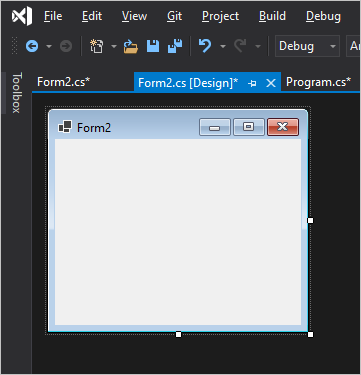
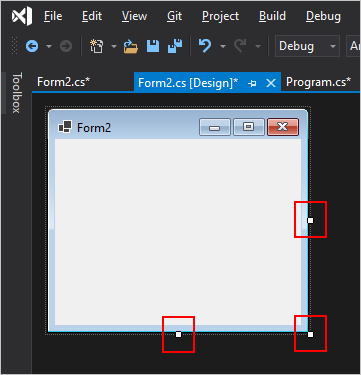
Fix warnings

diff --git a/dotnet-desktop-guide/net/winforms/forms/how-to-position-and-resize.md b/dotnet-desktop-guide/net/winforms/forms/how-to-position-and-resize.md
@@ -20,11 +20,11 @@ You can change the size of a form at design time with Visual Studio, and at run 
 
 After [adding a new form](how-to-add.md) to the project, the size of a form is set in two different ways. First, you can set it is with the size grips in the designer. By dragging either the right edge, bottom edge, or the corner, you can resize the form.
 
-:::image type="content" source="media/designer-grips.png" alt-text="Right click solution explorer to add new form to windows forms project":::
+:::image type="content" source="media/how-to-position-and-resize/designer-grips.png" alt-text="Right click solution explorer to add new form to windows forms project with grips":::
 
 The second way you can resize the form while the designer is open, is through the properties pane. Select the form, then find the **Properties** pane in Visual Studio. Scroll down to **size** and expand it. You can set the **Width** and **Height** manually.
 
-:::image type="content" source="media/designer-properties-size.png" alt-text="Right click solution explorer to add new form to windows forms project":::
+:::image type="content" source="media/how-to-position-and-resize/designer-properties-size.png" alt-text="Right click solution explorer to add new form to windows forms project":::
 
 ## Resize in code
 
@@ -75,7 +75,7 @@ If the `Size` isn't manually set, the form's default size is what it was set to 
 
 When a form is displayed, the initial location of the form is determined by the <xref:System.Windows.Forms.Form.StartPosition%2A> property. When a form is displayed, the value of this property is determined and the location of the form is set. The <xref:System.Windows.Forms.Form.Location%2A> property holds the current location the form. Both properties can be set through the designer.
 
-:::image type="content" source="media/startposition.png" alt-text="visual studio properties pane with start position highlighted":::
+:::image type="content" source="media/how-to-position-and-resize/startposition.png" alt-text="visual studio properties pane with start position highlighted":::
 
 | FormStartPosition Enum | Description                                                                                                      |
 |------------------------|------------------------------------------------------------------------------------------------------------------|
@@ -147,6 +147,6 @@ If the `Size` isn't set, the form's default size is what it was set to at design
 
 ## See also
 
-- [How to position and size a form (Windows Forms .NET)](how-to-position-and-resize.md)
+- [How to add a form to a project (Windows Forms .NET)](how-to-add.md)
 - [Events overview (Windows Forms .NET)](events.md)
 - [Position and layout of controls (Windows Forms .NET)](../controls/layout.md)

diff --git a/dotnet-desktop-guide/net/winforms/forms/how-to-add.md b/dotnet-desktop-guide/net/winforms/forms/how-to-add.md
@@ -17,11 +17,11 @@ Add a new form with Visual Studio.
 
 01. In Visual Studio, find the **Project Explorer** pane. Right-click on the project and choose **Add** > **Form (Windows Forms)...**.
 
-    :::image type="content" source="media/right-click.png" alt-text="Right click solution explorer to add new form to windows forms project":::
+    :::image type="content" source="media/how-to-add/right-click.png" alt-text="Right click solution explorer to add new form to windows forms project":::
 
 01. In the **Name** box, type a name for your form, such as *MyNewForm*. Visual Studio will provide a default and unique name that you may use.
 
-    :::image type="content" source="media/new-form-dialog.png" alt-text="Add item dialog in visual studio for windows forms":::
+    :::image type="content" source="media/how-to-add/new-form-dialog.png" alt-text="Add item dialog in visual studio for windows forms":::
 
 Once the form has been added, Visual Studio will open the form designer for the form.
 
@@ -35,7 +35,7 @@ Alternatively, you can use Visual Studio to import a file into your project. Whe
 
 01. In Visual Studio, find the **Project Explorer** pane. Right-click on the project and choose **Add** > **Existing Item...**.
 
-    :::image type="content" source="media/existing-right-click.png" alt-text="Right click solution explorer to add existing form to windows forms project":::
+    :::image type="content" source="media/how-to-add/existing-right-click.png" alt-text="Right click solution explorer to add existing form to windows forms project":::
 
 02. Navigate to the folder containing your form files.
 
